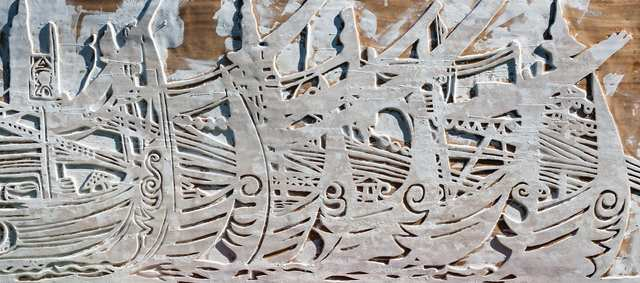
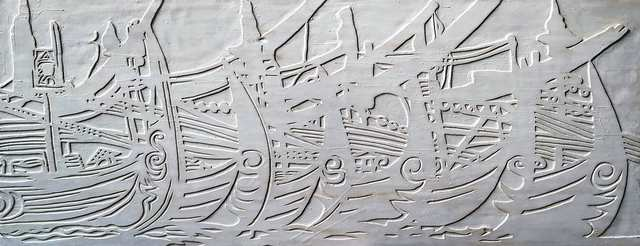
many picture fixes and some new woodblocks

diff --git a/_site/index.html b/_site/index.html
@@ -493,6 +493,31 @@
             
           
             
+              
+              <div class="painting_link_box">
+
+                <a class="painting_link" href="/2018012">
+
+                  
+
+                  
+
+                  <img  class="painting_link_image" loading="lazy" src="/assets/p/paintings/davina-stephens-2018012-640.jpg"
+                       srcset="/assets/p/paintings/davina-stephens-2018012-640.jpg 640w,
+                               /assets/p/paintings/davina-stephens-2018012-880.jpg 880w,
+                               /assets/p/paintings/davina-stephens-2018012-1024.jpg 1024w,
+                               /assets/p/paintings/davina-stephens-2018012-1920.jpg 1920w"
+                       sizes="100vw" alt="index.md - " />
+
+                  <div class="painting_title"><strong>Scallops shells</strong>, 145 x 48 cm</div>
+
+                </a>
+
+              </div>
+              
+            
+          
+            
           
             
           
@@ -655,6 +680,8 @@
             
           
             
+          
+            
               
               <div class="painting_link_box">
 
@@ -776,31 +803,6 @@
           
             
           
-            
-          
-            
-              
-              <div class="painting_link_box">
-
-                <a class="painting_link" href="/2006014">
-
-                  
-
-                  
-
-                  <img  class="painting_link_image" loading="lazy" src="/assets/p/paintings/davina-stephens-2006014-640.jpg"
-                       srcset="/assets/p/paintings/davina-stephens-2006014-640.jpg 640w,
-                               /assets/p/paintings/davina-stephens-2006014-880.jpg 880w,
-                               /assets/p/paintings/davina-stephens-2006014-1024.jpg 1024w,
-                               /assets/p/paintings/davina-stephens-2006014-1920.jpg 1920w"
-                       sizes="100vw" alt="index.md - " />
-
-                  <div class="painting_title"><strong>Scallops shells</strong>, 135 x 55 cm</div>
-
-                </a>
-
-              </div>
-              
             
           
             

diff --git a/_site/mapping-the-archipelagoes/index.html b/_site/mapping-the-archipelagoes/index.html
@@ -348,6 +348,8 @@
               
             
               
+            
+              
 
               <div class="painting_block">
                 <a class="painting_link" href="/2016023" title="view: Riding on the Komodo Islands" >
@@ -457,6 +459,8 @@
               
             
               
+            
+              
 
               <div class="painting_block">
                 <a class="painting_link" href="/2012002" title="view: Archipelago 2" >
@@ -500,8 +504,6 @@
 
                 </a>
               </div>
-              
-            
               
             
               

diff --git a/_site/living-houses/index.html b/_site/living-houses/index.html
@@ -328,6 +328,8 @@
               
             
               
+            
+              
 
               <div class="painting_block">
                 <a class="painting_link" href="/2018004" title="view: Hujan Lagi" >

diff --git a/_posts/2019-01-01-2006016.md b/_posts/2019-01-01-2006016.md
@@ -1,13 +1,13 @@
 ---
-permalink: "2006016"
-year: 2006
-number: "016"
-title: Prahu Bali
-dimensions: 125 x 60
+permalink: "2013003"
+year: 2013
+number: "013"
+title: Prahu Bali 2
+dimensions: 140 x 90
 medium: woodblock
 show_in_home: #true or empty
 publish: # notyet or blank
-image: /assets/p/paintings/davina-stephens-2006016.jpg
+image: /assets/p/paintings/davina-stephens-2013003.jpg
 tags: woodblock teakwood woodcarved sold
 serie: Woodblocks Carvings
 ---

diff --git a/_posts/2019-01-01-2018012.md b/_posts/2019-01-01-2018012.md
@@ -1,13 +1,13 @@
 ---
-permalink: "2006014"
-year: 2006
-number: "014"
+permalink: "2018012"
+year: 2018
+number: "012"
 title: Scallops shells
-dimensions: 135 x 55
+dimensions: 145 x 48
 medium: woodblock teakwood
 show_in_home: true #true or empty
 publish: # notyet or blank
-image: /assets/p/paintings/davina-stephens-2006014.jpg
+image: /assets/p/paintings/davina-stephens-2018012.jpg
 tags: woodblock teakwood woodcarved
 serie: Woodblocks Carvings
 ---

diff --git a/_posts/2019-01-01-2013004.md b/_posts/2019-01-01-2013004.md
@@ -1,0 +1,13 @@
+---
+permalink: "2013004"
+year: 2013
+number: "004"
+title: Sulawesi Landmarker
+dimensions: 65 x 79
+medium: woodblock
+show_in_home: #true or empty
+publish: # notyet or blank
+image: /assets/p/paintings/davina-stephens-2013004.jpg
+tags: woodblock
+serie: Woodblocks Carvings  
+---
